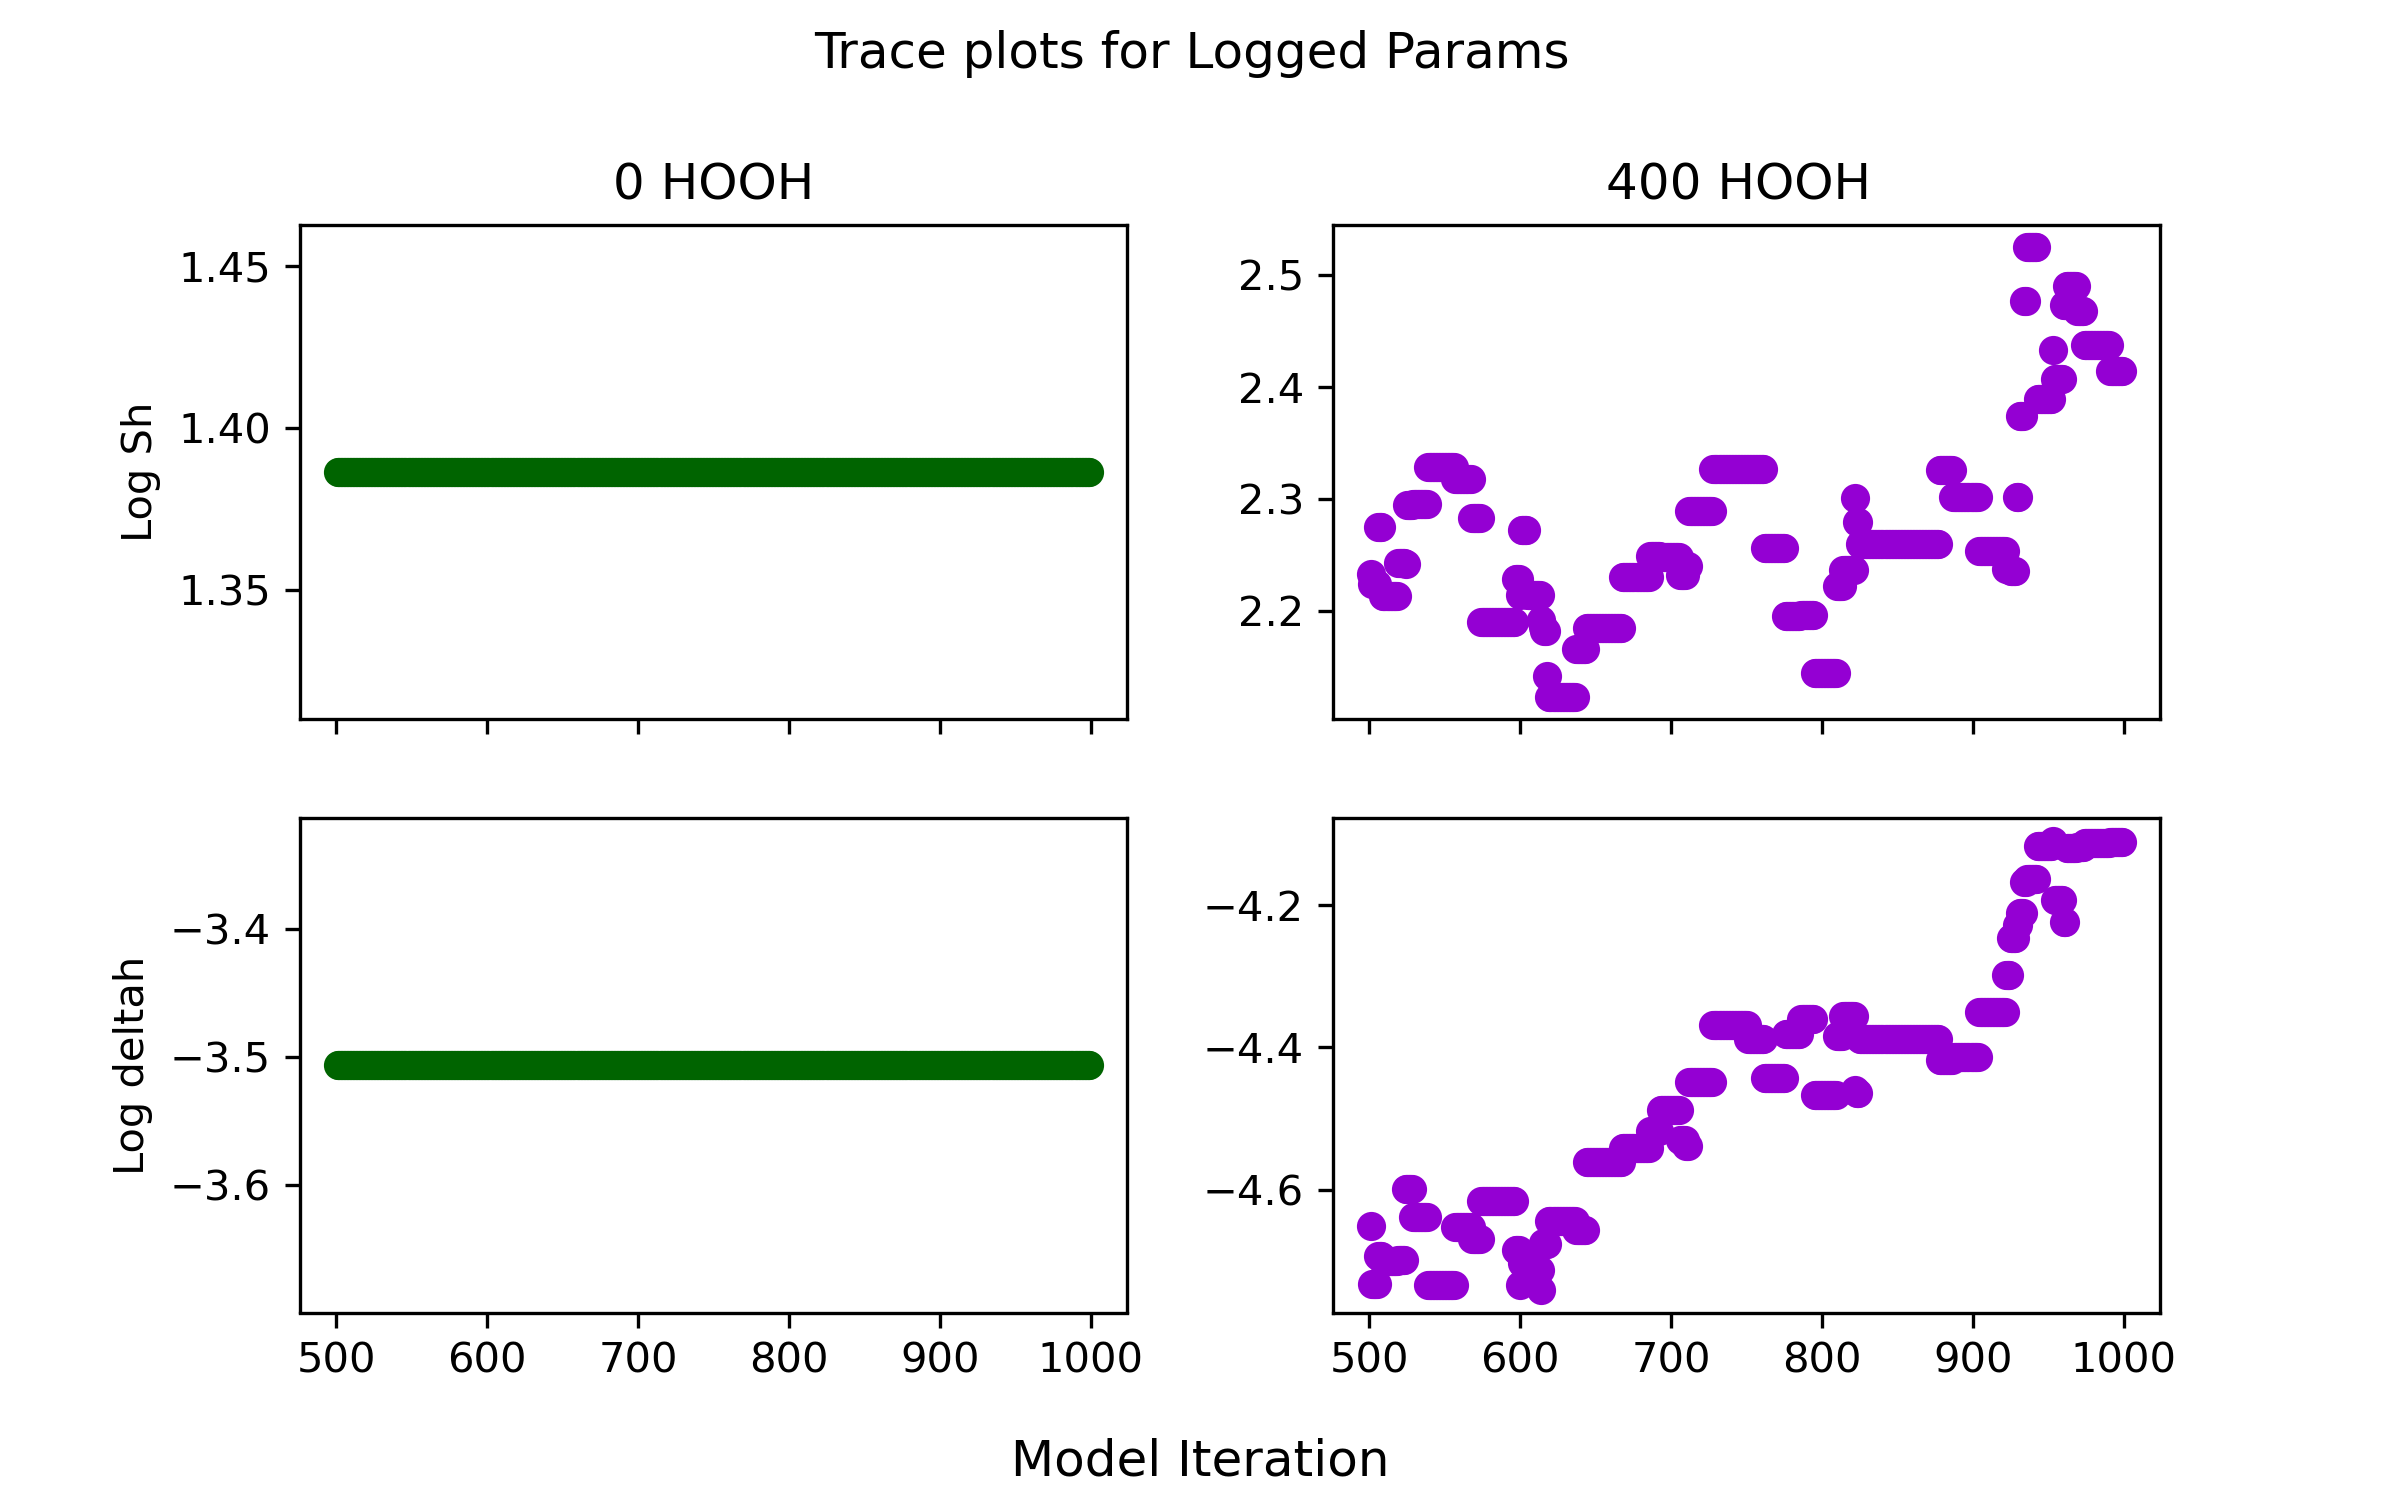
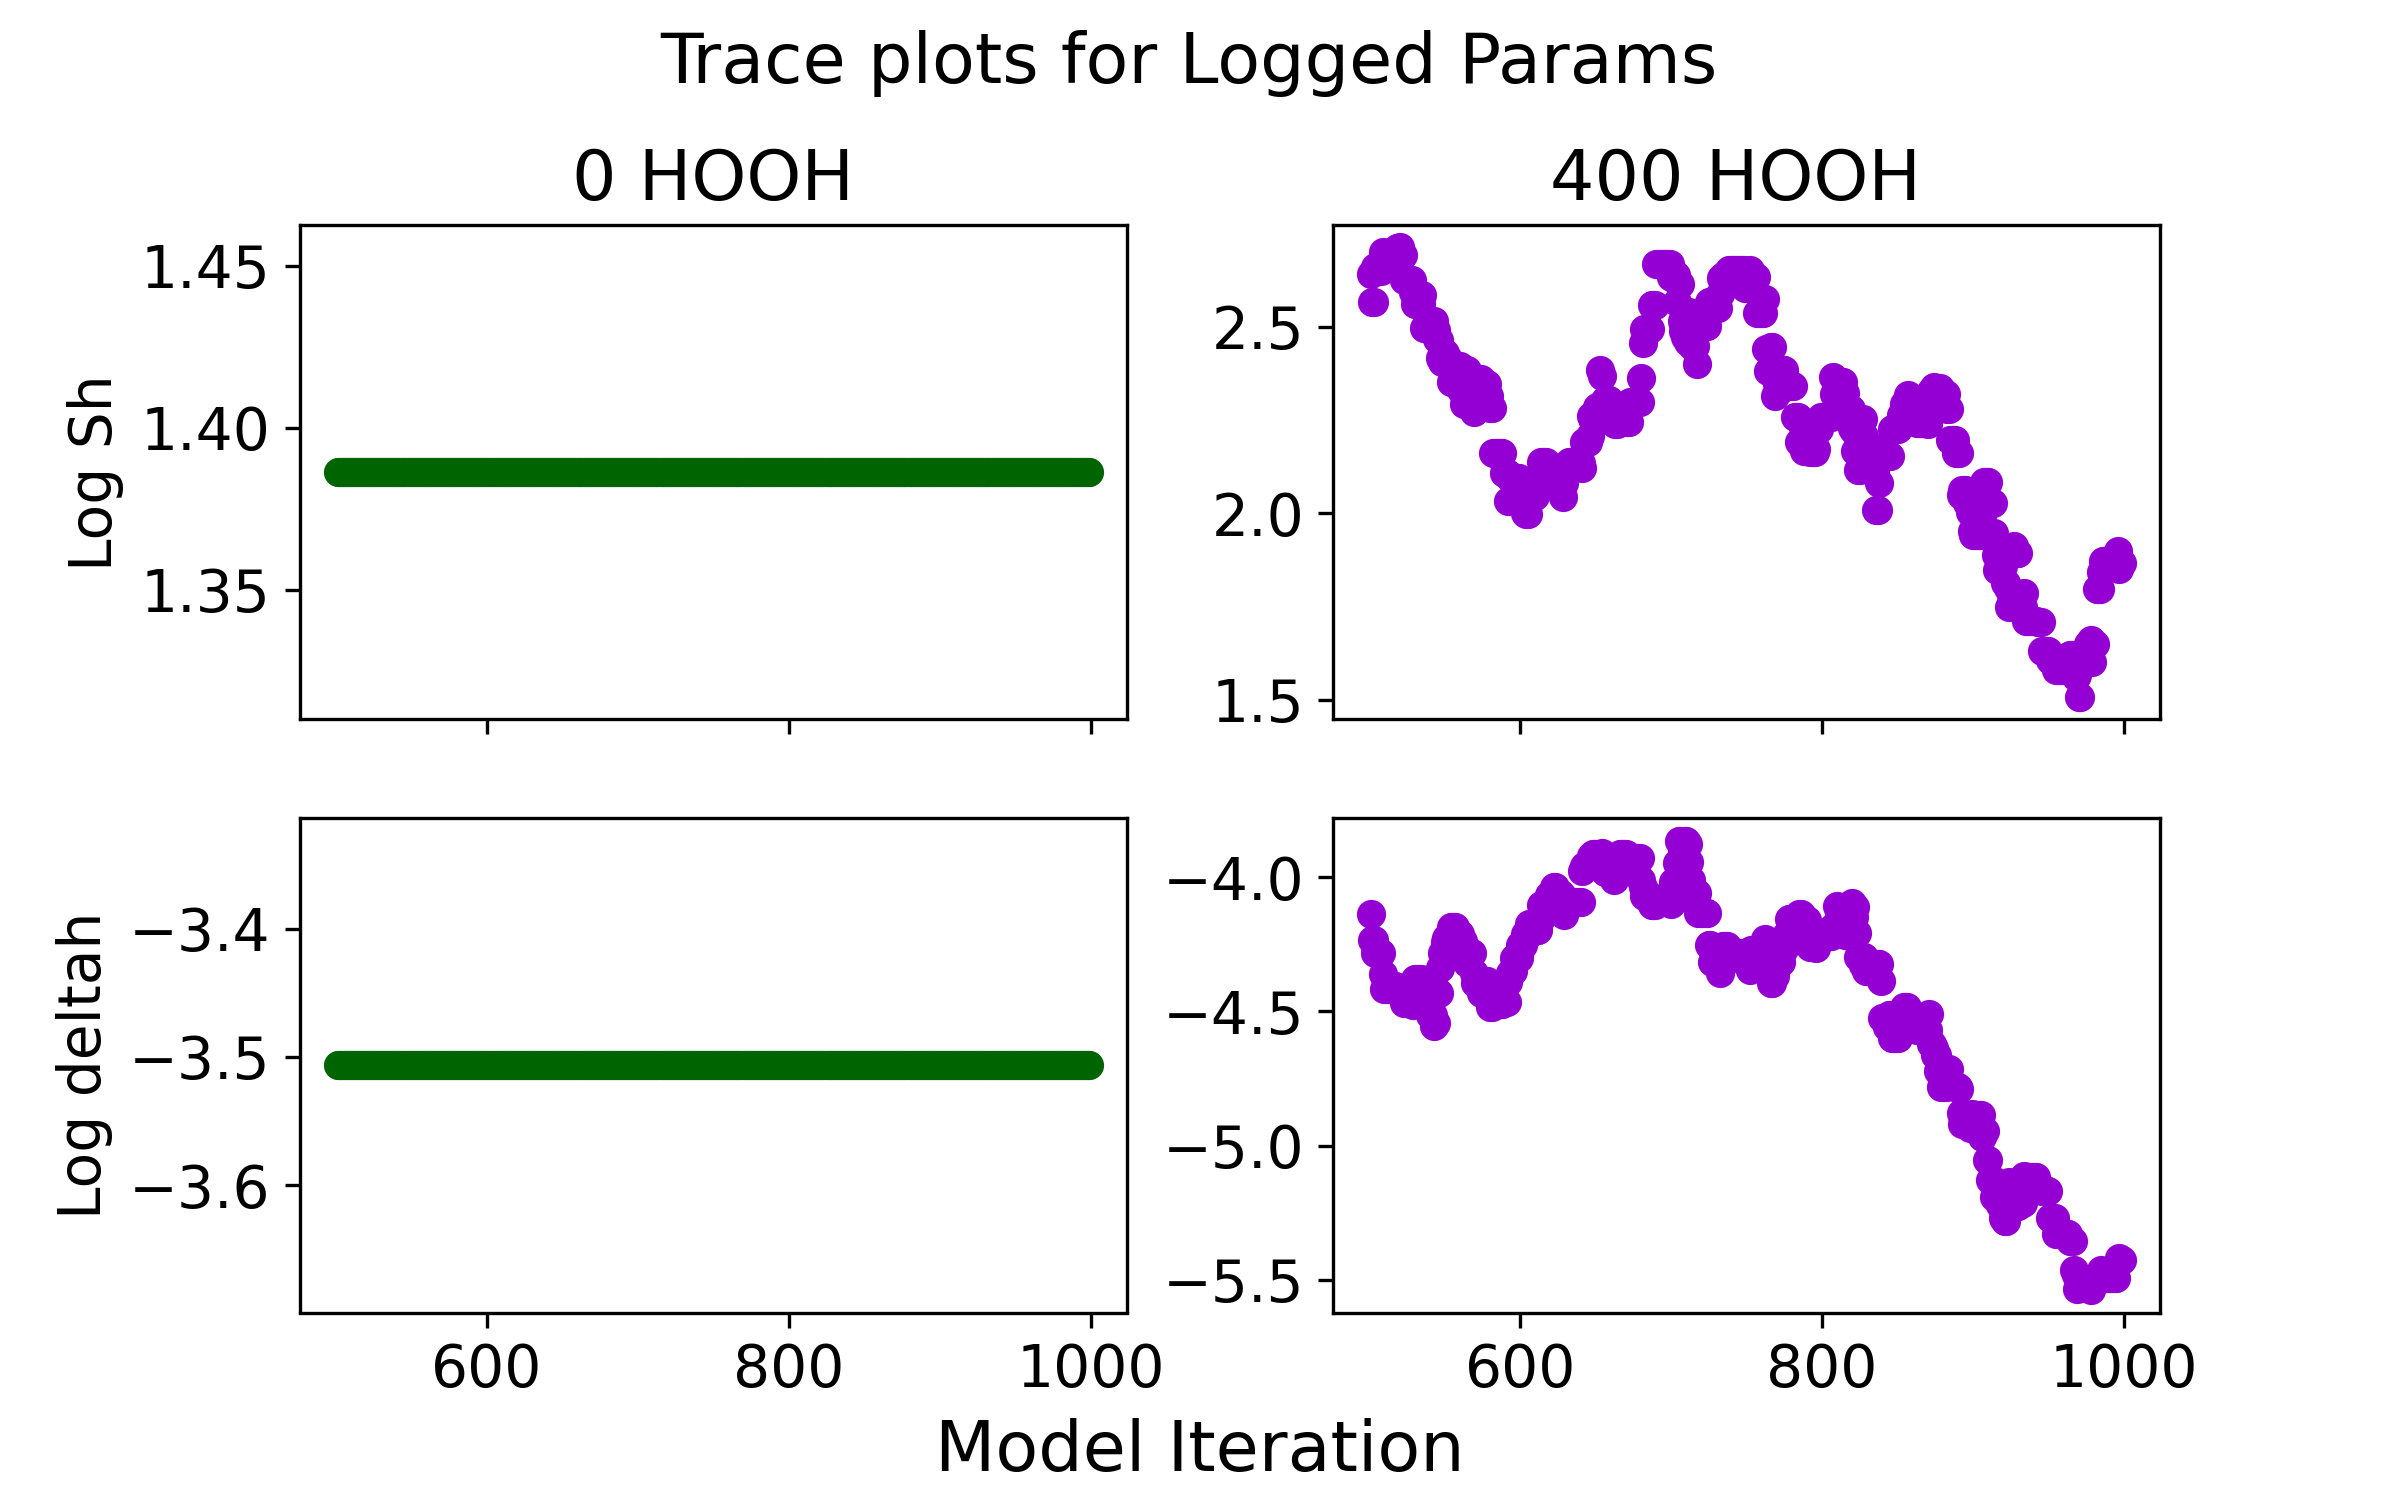
biotic_batch_all

diff --git a/src/model_abiotic_batch.py b/src/model_abiotic_batch.py
@@ -118,7 +118,7 @@ def get_model(df,priors):
                           Sh = priors['Sh'],
                           H0  = priors['H0'],
                           t_steps=1000,
-                          H = priors['H0'],
+                          H = 200,
                          )
     return a1
 
@@ -138,7 +138,10 @@ def get_model(df,priors):
 #####################################################
 #####################################################
 
-
+#send to dt and ECC before hack on friday 
+#have on git hub for play! 
+#abiotic model  - 
+#scling issus  - 
 
 
 

diff --git a/src/model_pro_batch.py b/src/model_pro_batch.py
@@ -35,7 +35,7 @@ plt.rcParams['legend.fontsize'] = 'small'
 #####################################################
 df_all = pd.read_csv("../data/BCC_1-31-dataset.csv",header=1)
 df_all.drop(df_all.columns[df_all.columns.str.contains('unnamed',case = False)],axis = 1, inplace = True)
-df_all = df_all.rename({'Time(days)':'time'}, axis=1)    #'renaming column to make it callable by 'times'
+df_all = df_all.rename({'time(day)':'time'}, axis=1)    #'renaming column to make it callable by 'times'
 
 #slicing data into abiotic, biotic, and Pro only dataframes
 

diff --git a/src/viz_biotic_batch.py b/src/viz_biotic_batch.py
@@ -33,11 +33,12 @@ plt.rcParams["figure.dpi"] = 300
 df1 = pd.read_csv("../data/BCC_1-31-dataset.csv",header=1)
 df2 = pd.read_csv("../data/BCC_2-5-dataset.csv",header=1)
 
-df_all = df1.join(other = df2, how = 'inner', on = 'assay', sort = True) #broken here
+df_all = df1.merge(right = df2, how = 'outer' ) 
 
 df_all.drop(df_all.columns[df_all.columns.str.contains('unnamed',case = False)],axis = 1, inplace = True)
 df_all = df_all.rename({'time(day)':'time'}, axis=1)    #'renaming column to make it callable by 'times'
 df_all.fillna(0)
+
 df = df_all
 
 
